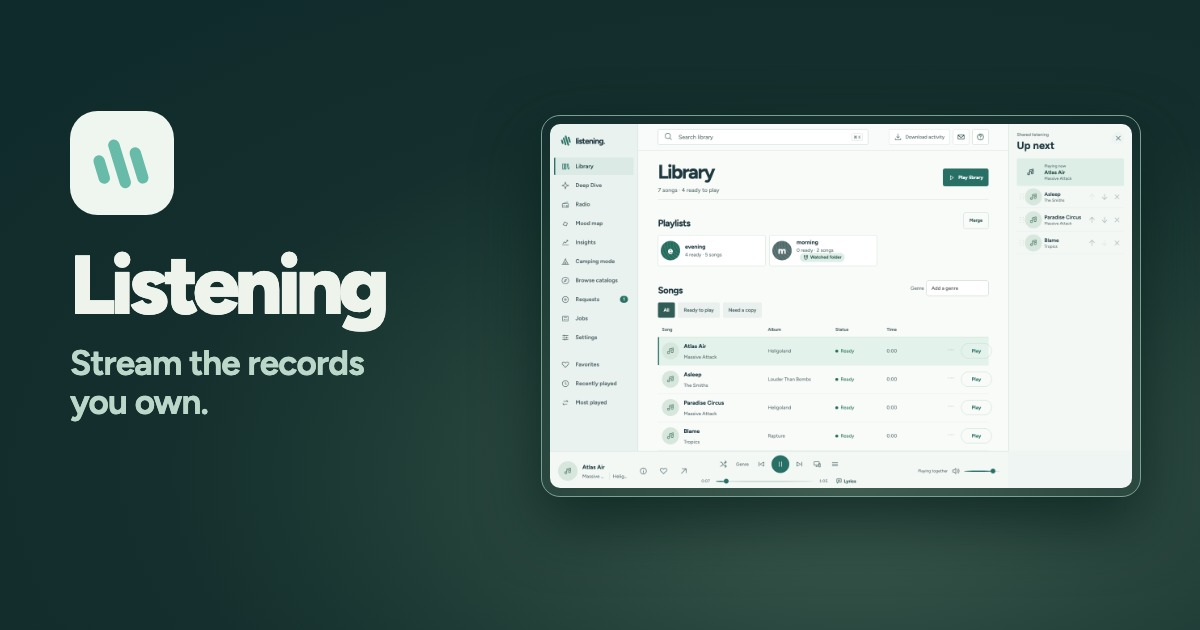
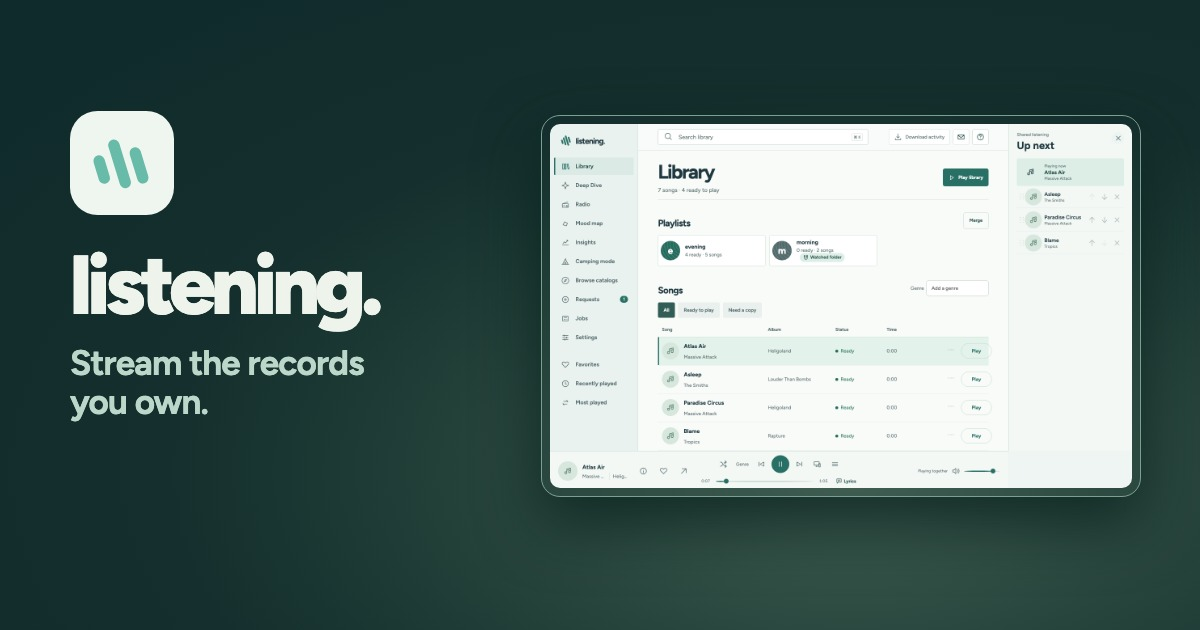
Use the listening. wordmark across the landing preview

Changed region(s): [[0.0617, 0.3921, 0.3392, 0.5429]]

diff --git a/frontend/react/about/index.html b/frontend/react/about/index.html
@@ -20,7 +20,7 @@
   <a class="about-skip" href="#main">Skip to content</a>
   <header class="about-mast">
     <div class="about-wrap">
-      <a class="about-wordmark" href="#main"><img src="%BASE_URL%assets/icons/favicon.svg" width="34" height="34" alt="" />Listening</a>
+      <a class="about-wordmark" href="#main"><img src="%BASE_URL%assets/icons/favicon.svg" width="34" height="34" alt="" />listening.</a>
       <nav aria-label="Main navigation"><a href="#showcase">Features</a><a href="#install">Install</a><a class="about-room-link" href="%BASE_URL%">Open the app <svg class="about-arrow" viewBox="0 0 16 16" aria-hidden="true" focusable="false"><use href="#link-arrow"/></svg></a></nav>
     </div>
   </header>

diff --git a/scripts/verify_ui.py b/scripts/verify_ui.py
@@ -692,7 +692,7 @@ def verify_landing(browser, base, output, errors, warnings):
             assert sleeve.locator("img").evaluate("img => img.complete && img.naturalWidth > 0")
             assert page.get_by_role("link", name="Explore listening features").get_attribute("href") == "#showcase"
             assert page.get_by_role("navigation").get_by_role("link", name="Features").get_attribute("href") == "#showcase"
-            logo = page.get_by_role("link", name="Listening", exact=True).first.locator("img")
+            logo = page.get_by_role("link", name="listening.", exact=True).first.locator("img")
             assert logo.evaluate("img => img.complete && img.naturalWidth > 0")
             hero_library = page.get_by_role("img", name="Library and queue in Listening")
             hero_library.evaluate("image => image.decode()")
